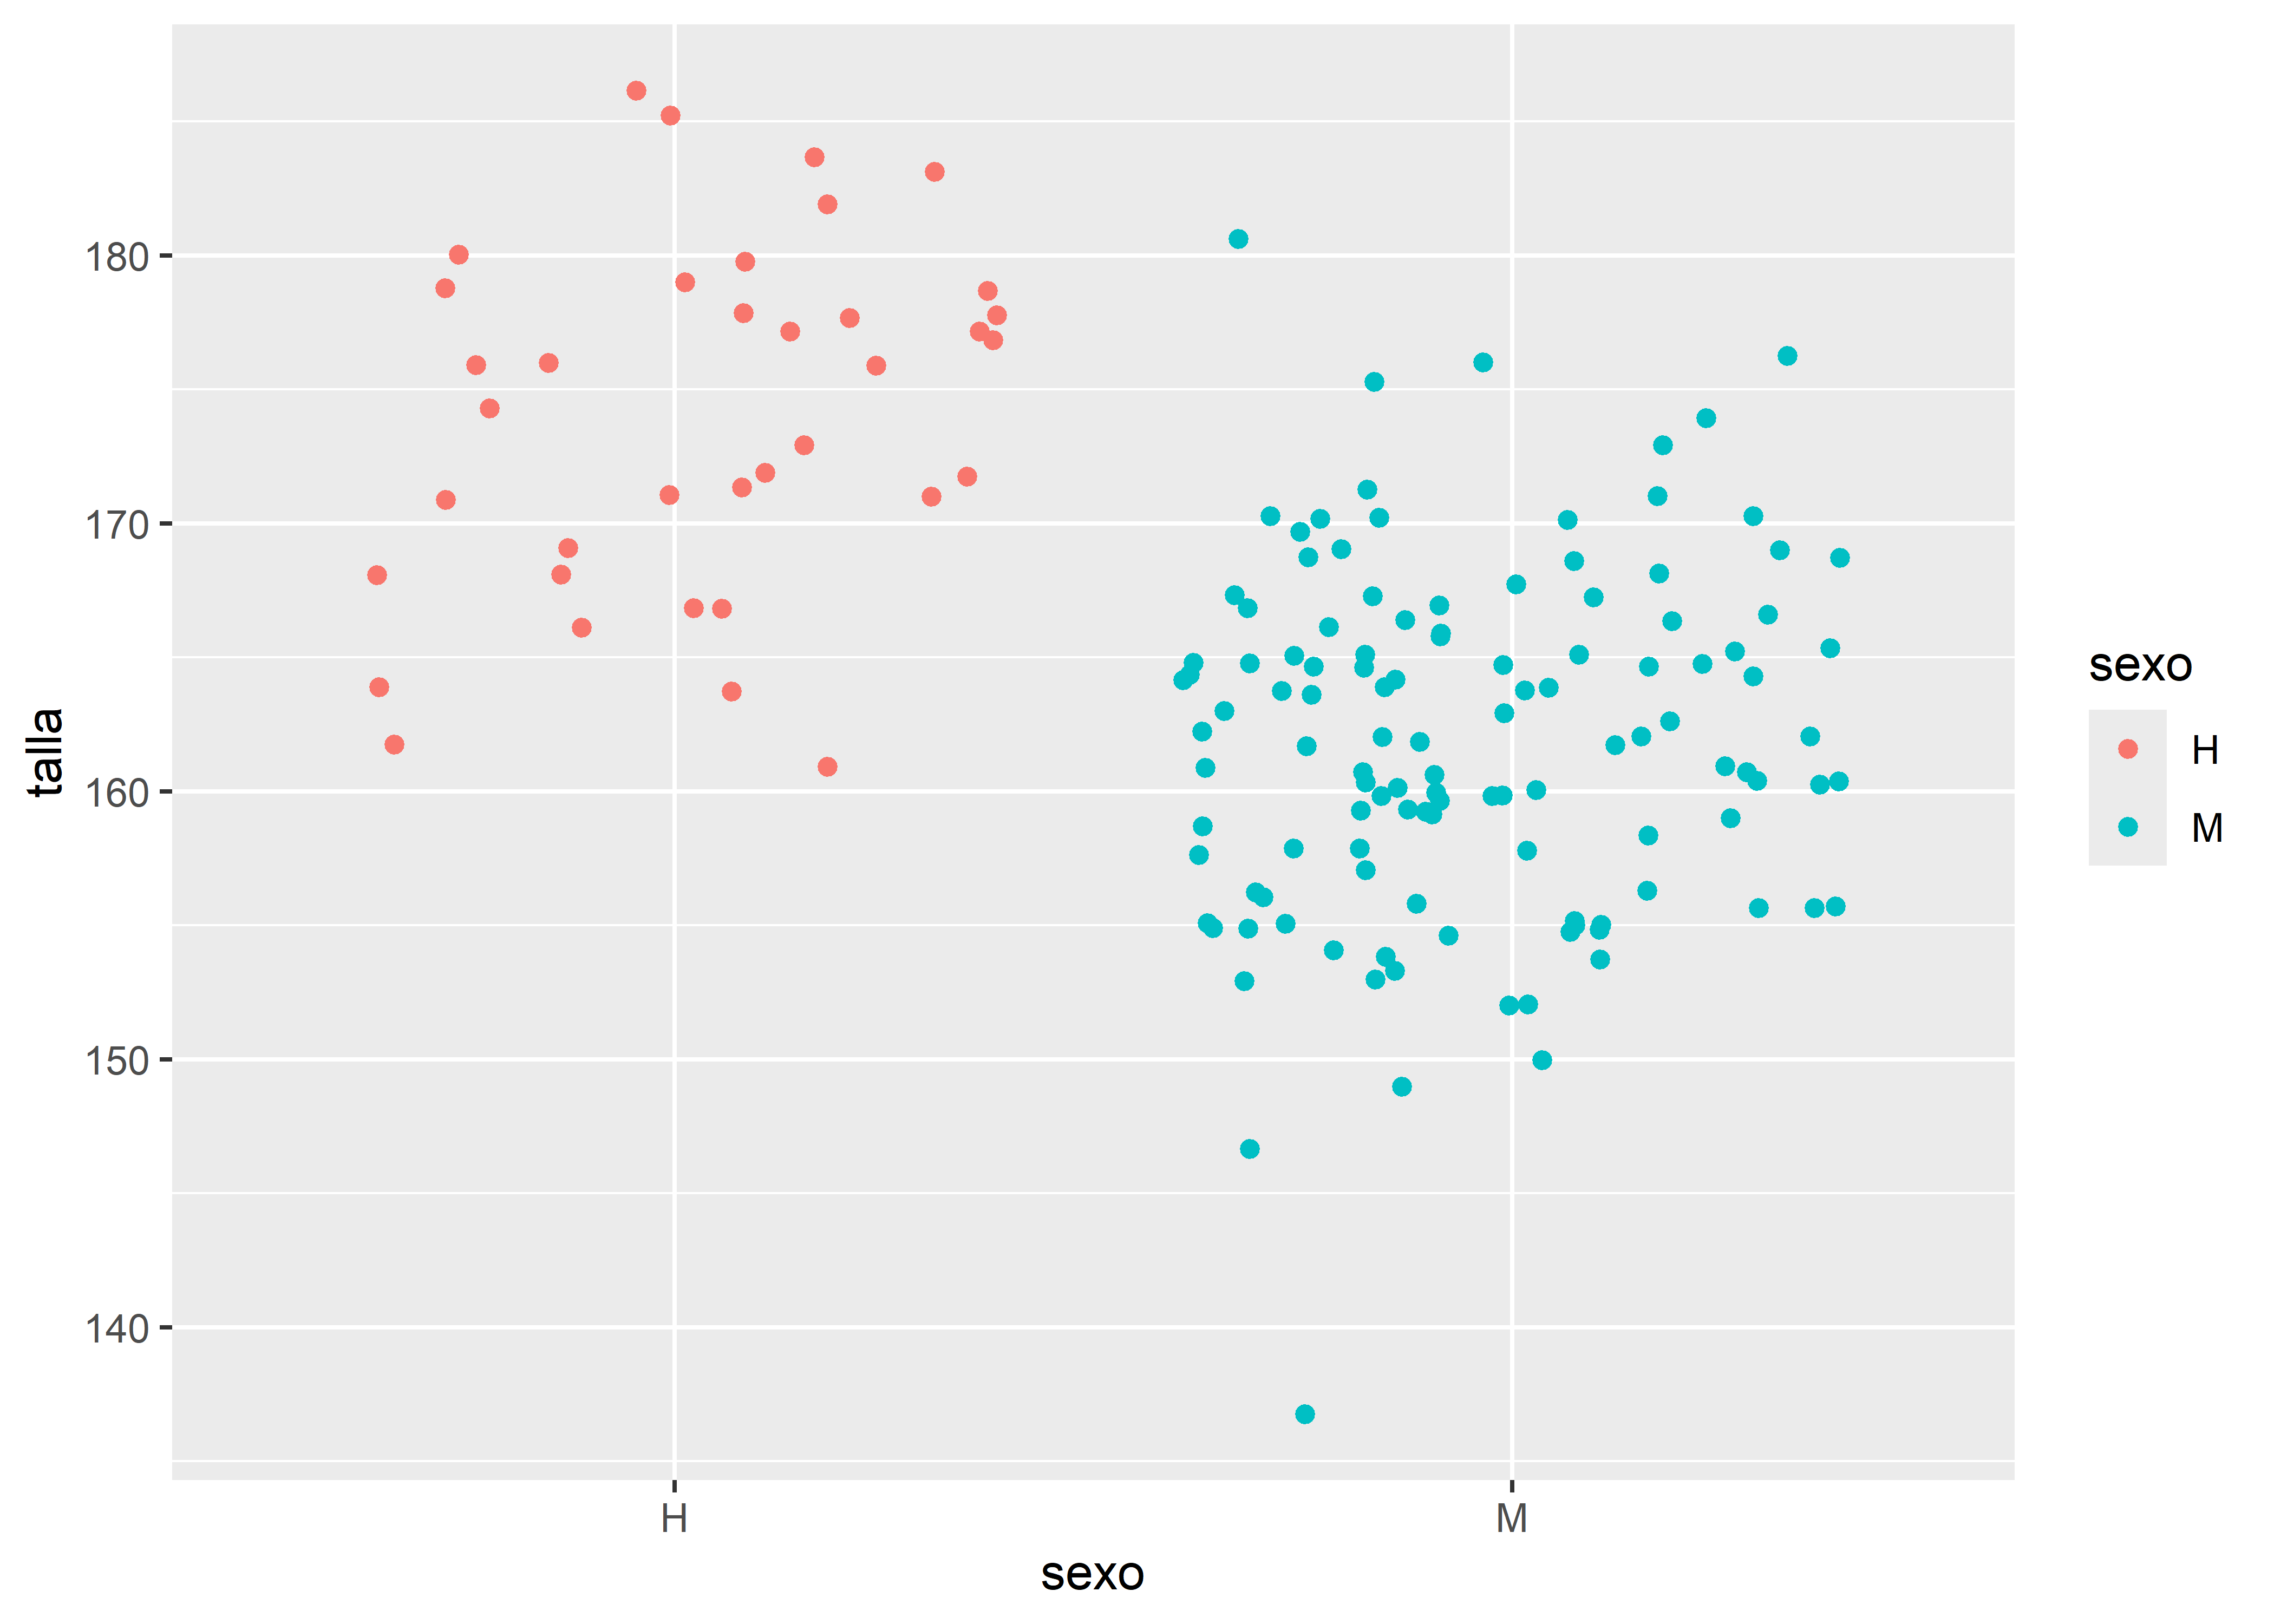
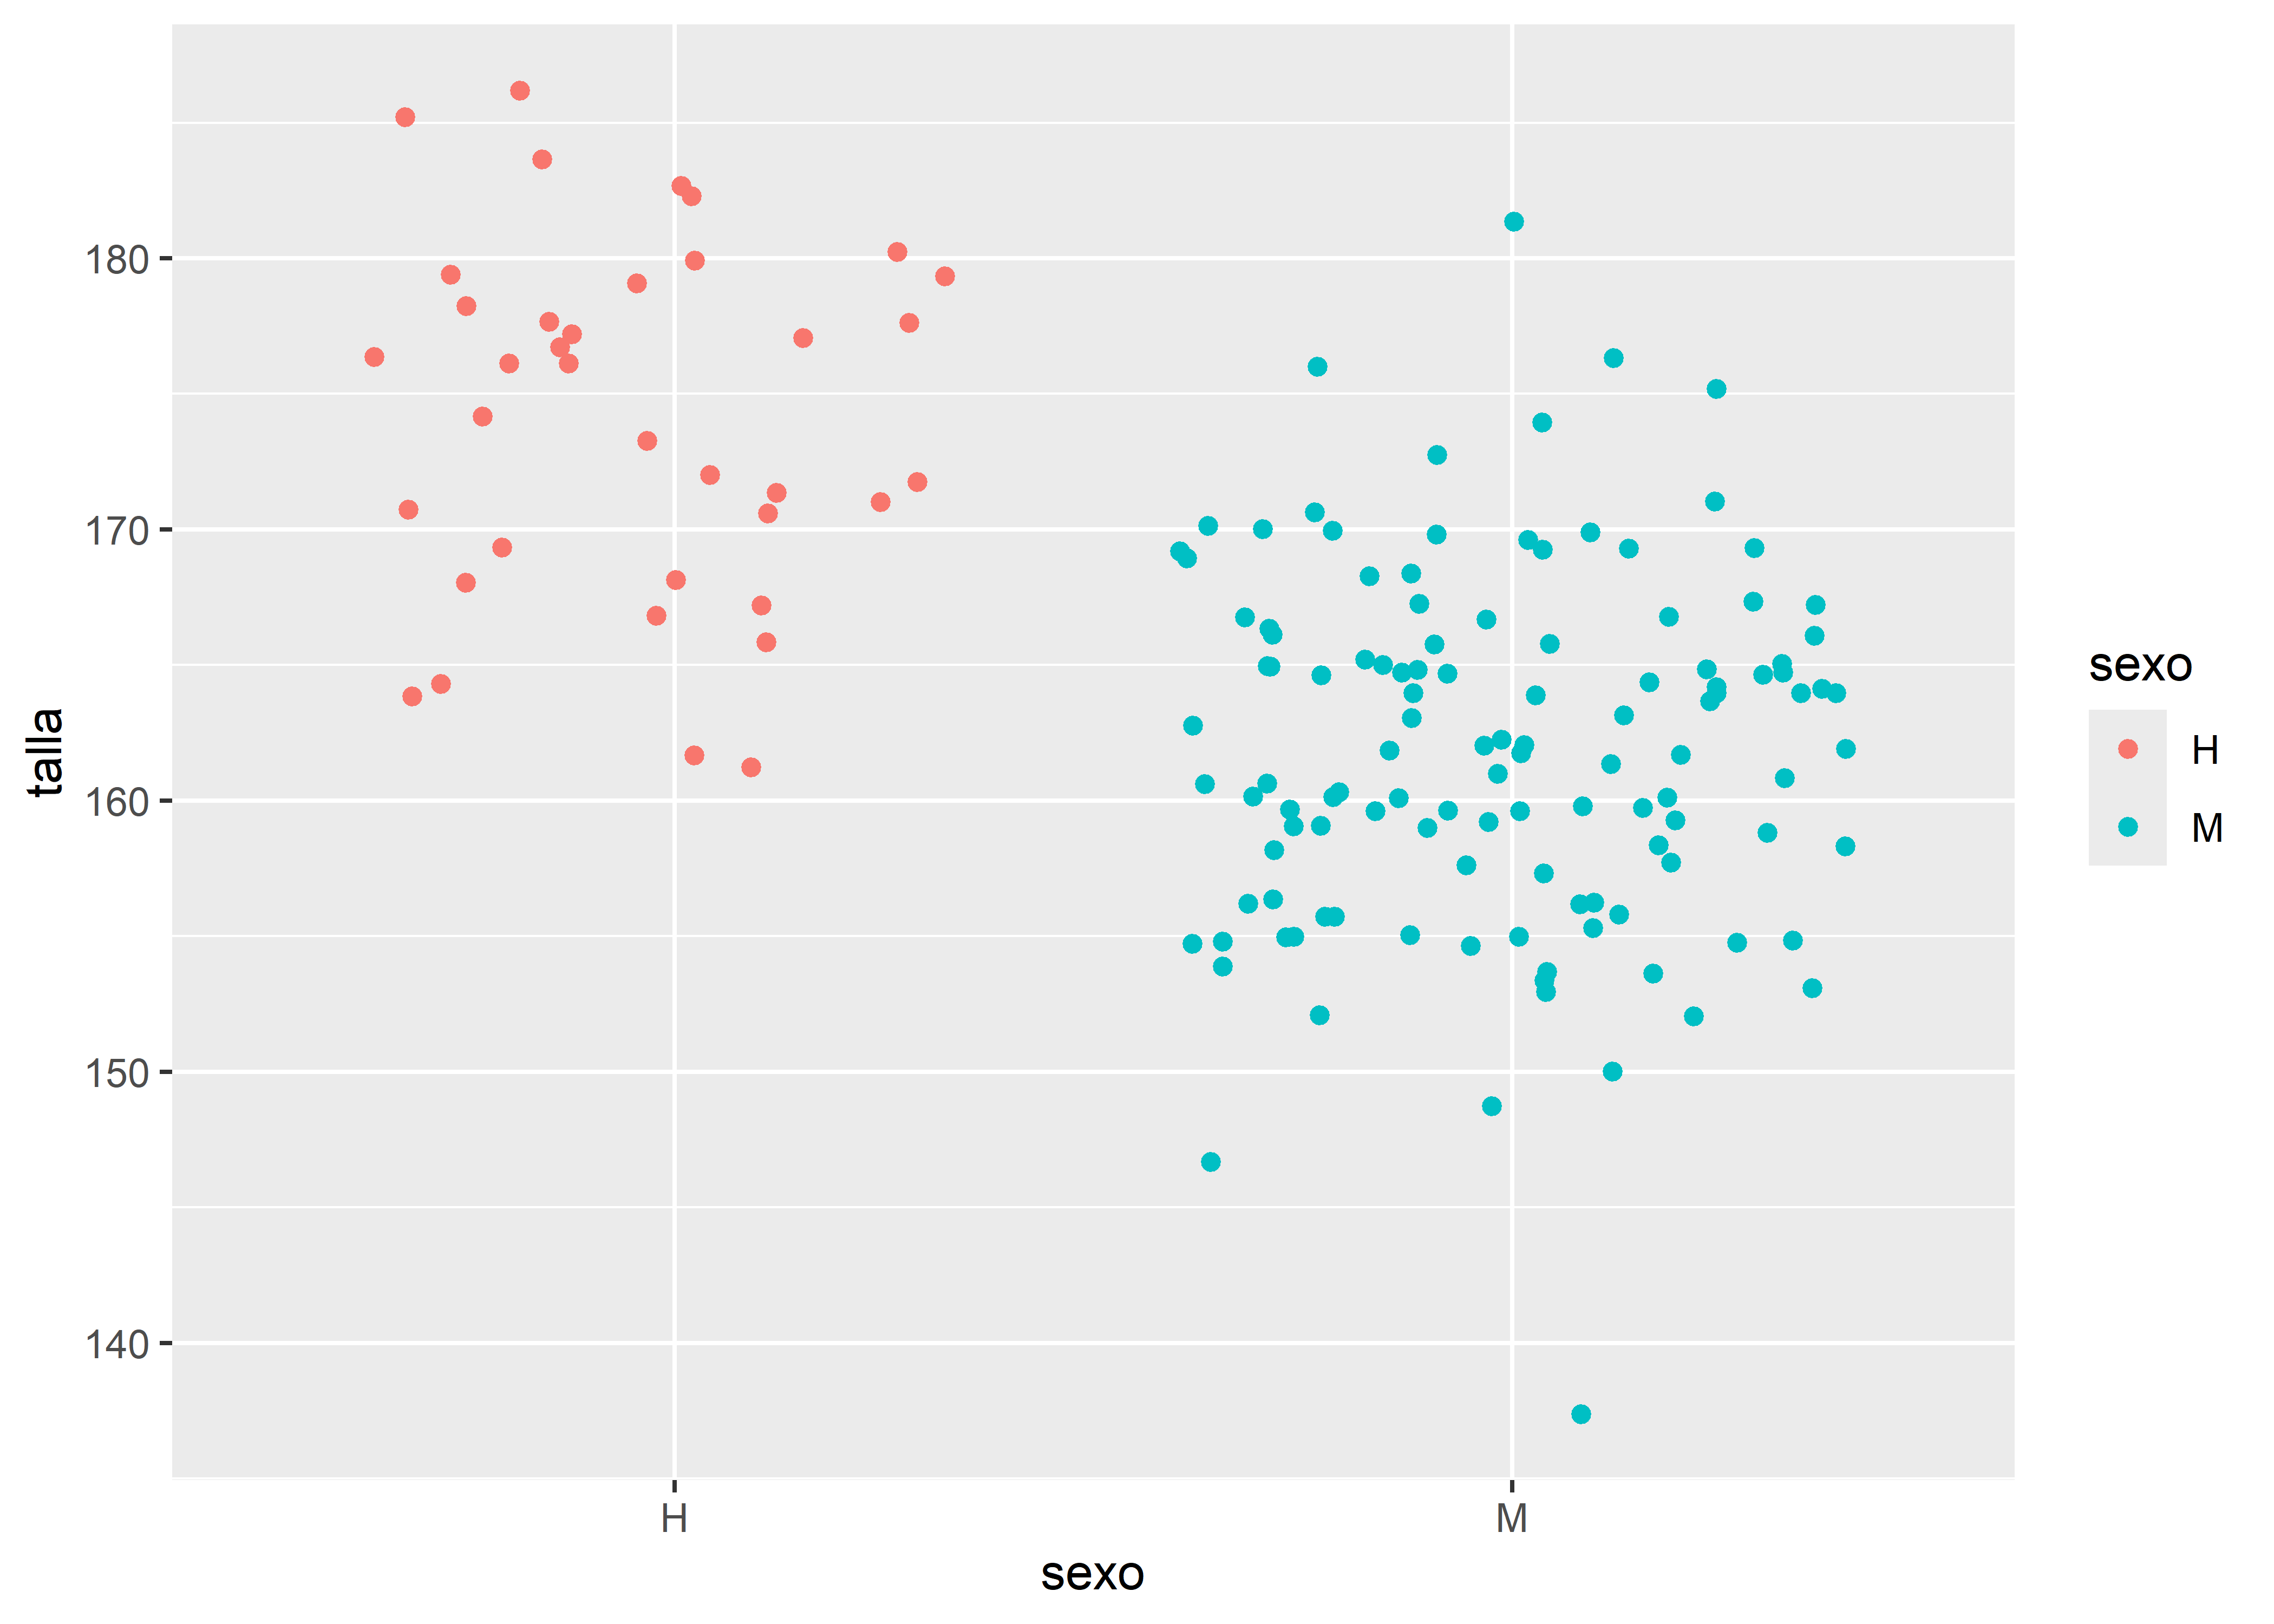
Built site for gh-pages

diff --git a/unidad_1/03_intro_tidyverse.html b/unidad_1/03_intro_tidyverse.html
@@ -519,12 +519,12 @@ div.csl-indent {
 
 <div class="quarto-figure quarto-figure-center">
 <figure class="figure">
-<p><img src="images/tidyverse.png" class="img-fluid quarto-figure quarto-figure-center figure-img" style="width:44.0%"></p>
+<p><img src="..\images/tidyverse.png" class="img-fluid quarto-figure quarto-figure-center figure-img" style="width:44.0%"></p>
 </figure>
 </div>
 <section id="introducción" class="level2" data-number="3.1">
 <h2 data-number="3.1" class="anchored" data-anchor-id="introducción"><span class="header-section-number">3.1</span> Introducción</h2>
-<p><em>Tidyverse</em><span class="citation" data-cites="tidyverse">(<a href="#ref-tidyverse" role="doc-biblioref">Wickham et&nbsp;al. 2019</a>)</span> es el nombre que recibe el conjunto de paquetes desarrollados y/o promovidos por <a href="https://en.wikipedia.org/wiki/Hadley_Wickham"><strong>Hadley Wickham</strong></a> (jefe científico en Posit/RStudio) y su equipo, orientado al trabajo de ciencia de datos con R. Estos paquetes están diseñados para integrarse de manera coherente, compartiendo una misma filosofía de diseño conocida como <a href="https://cran.r-project.org/web/packages/tidyverse/vignettes/manifesto.html"><strong><em>The tidy tools manifesto</em></strong></a>.</p>
+<p>Tidyverse es el nombre que recibe el conjunto de paquetes desarrollados y/o promovidos por <a href="https://en.wikipedia.org/wiki/Hadley_Wickham"><strong>Hadley Wickham</strong></a> (jefe científico en Posit/RStudio) y su equipo, orientado al trabajo de ciencia de datos con R <span class="citation" data-cites="tidyverse">(<a href="#ref-tidyverse" role="doc-biblioref">Wickham et&nbsp;al. 2019</a>)</span>. Estos paquetes están diseñados para integrarse de manera coherente, compartiendo una misma filosofía de diseño conocida como <a href="https://cran.r-project.org/web/packages/tidyverse/vignettes/manifesto.html"><strong><em>The tidy tools manifesto</em></strong></a>.</p>
 <p>Los cuatro principios básicos sobre los que se construye <em>tidyverse</em> son:</p>
 <ul>
 <li><p>Reutilización de estructuras de datos</p></li>
@@ -541,12 +541,12 @@ div.csl-indent {
 </ul>
 <div class="quarto-figure quarto-figure-center">
 <figure class="figure">
-<p><img src="images/tidy.PNG" class="img-fluid quarto-figure quarto-figure-center figure-img"></p>
+<p><img src="..\images/tidy.PNG" class="img-fluid quarto-figure quarto-figure-center figure-img"></p>
 </figure>
 </div>
 <p>Además de los paquetes principales, al instalar <code>tidyverse</code> se incluyen otros que permiten trabajar con fechas, cadenas de caracteres o factores, también siguiendo los mismos principios.</p>
 <p>Uno de los objetivos de los desarrolladores fue dotar a la sintaxis de estos paquetes de una <strong>gramática</strong> clara: funciones cuyos nombres y argumentos permiten construir “<em>frases</em>” que sean semánticamente comprensibles. Un ejemplo de esto se ve en el paquete <code>dplyr</code>, donde la mayoría de las funciones son verbos en inglés como <code>filter()</code>, <code>mutate()</code>, <code>summarise()</code>, lo que facilita su lectura y comprensión.</p>
-<p>El paquete <code>tidyverse</code> (versión 2.0.0) puede instalarse desde el repositorio oficial CRAN mediante el menú <em>Packages</em> de RStudio, o ejecutando el siguiente código:</p>
+<p>El paquete <code>tidyverse</code> puede instalarse desde el repositorio oficial CRAN mediante el menú <em>Packages</em> de RStudio, o ejecutando el siguiente código:</p>
 <div class="cell" data-layout-align="center">
 <div class="code-copy-outer-scaffold"><div class="sourceCode cell-code" id="cb1"><pre class="sourceCode r code-with-copy"><code class="sourceCode r"><span id="cb1-1"><a href="#cb1-1" aria-hidden="true" tabindex="-1"></a><span class="fu">install.packages</span>(<span class="st">"tidyverse"</span>)</span></code></pre></div><button title="Copiar al portapapeles" class="code-copy-button"><i class="bi"></i></button></div>
 </div>
@@ -600,7 +600,7 @@ div.csl-indent {
 </div>
 <div class="quarto-figure quarto-figure-center">
 <figure class="figure">
-<p><img src="images/tibble.png" class="img-fluid quarto-figure quarto-figure-center figure-img" style="width:25.0%"></p>
+<p><img src="..\images/tibble.png" class="img-fluid quarto-figure quarto-figure-center figure-img" style="width:25.0%"></p>
 </figure>
 </div>
 </section>
@@ -623,7 +623,7 @@ div.csl-indent {
 </div>
 <div class="quarto-figure quarto-figure-center">
 <figure class="figure">
-<p><img src="images/magrittr.png" class="img-fluid quarto-figure quarto-figure-center figure-img" style="width:25.0%"></p>
+<p><img src="..\images/magrittr.png" class="img-fluid quarto-figure quarto-figure-center figure-img" style="width:25.0%"></p>
 </figure>
 </div>
 </section>
@@ -634,7 +634,7 @@ div.csl-indent {
 <p>Este enfoque refleja el principio de que <em>cada función representa un paso en una secuencia lógica de transformación de datos</em>. La forma de trabajar se puede ver en el siguiente esquema general:</p>
 <div class="quarto-figure quarto-figure-center">
 <figure class="figure">
-<p><img src="images/pipe.png" class="img-fluid quarto-figure quarto-figure-center figure-img"></p>
+<p><img src="..\images/pipe.png" class="img-fluid quarto-figure quarto-figure-center figure-img"></p>
 </figure>
 </div>
 <p>A continuación, mostramos un ejemplo comparativo de cómo cambia la sintaxis usando el dataset incorporado en R <code>mtcars</code>, que contiene datos sobre autos:</p>
@@ -710,7 +710,7 @@ Valiant           4.496665  1  0 1.732051 1.000000</code></pre>
 <p>Las tuberías le dan mucha mas claridad al código separándolo en partes, como si fuesen oraciones de un párrafo.</p>
 <div class="quarto-figure quarto-figure-center">
 <figure class="figure">
-<p><img src="images/readr.png" class="img-fluid quarto-figure quarto-figure-center figure-img" style="width:25.0%"></p>
+<p><img src="..\images/readr.png" class="img-fluid quarto-figure quarto-figure-center figure-img" style="width:25.0%"></p>
 </figure>
 </div>
 </section>
@@ -858,7 +858,7 @@ NULL</code></pre>
 </div>
 <div class="quarto-figure quarto-figure-center">
 <figure class="figure">
-<p><img src="images/readxl.png" class="img-fluid quarto-figure quarto-figure-center figure-img" style="width:25.0%"></p>
+<p><img src="..\images/readxl.png" class="img-fluid quarto-figure quarto-figure-center figure-img" style="width:25.0%"></p>
 </figure>
 </div>
 </section>

diff --git a/index.html b/index.html
@@ -435,7 +435,7 @@ ul.task-list li input[type="checkbox"] {
     <div>
     <div class="quarto-title-meta-heading">Autor/a</div>
     <div class="quarto-title-meta-contents">
-             <p>Instituto Nacional de Epidemiología ‘Dr.&nbsp;J. H. Jara’ </p>
+             <p>Instituto Nacional de Epidemiología Dr.&nbsp;Juan H. Jara </p>
           </div>
   </div>
     